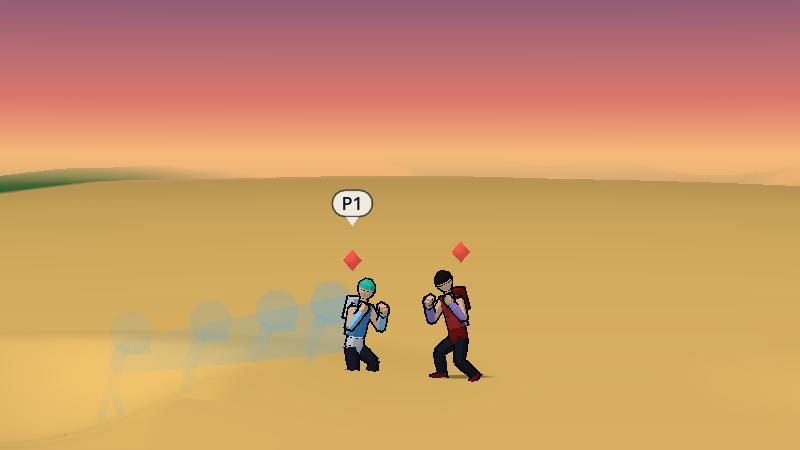
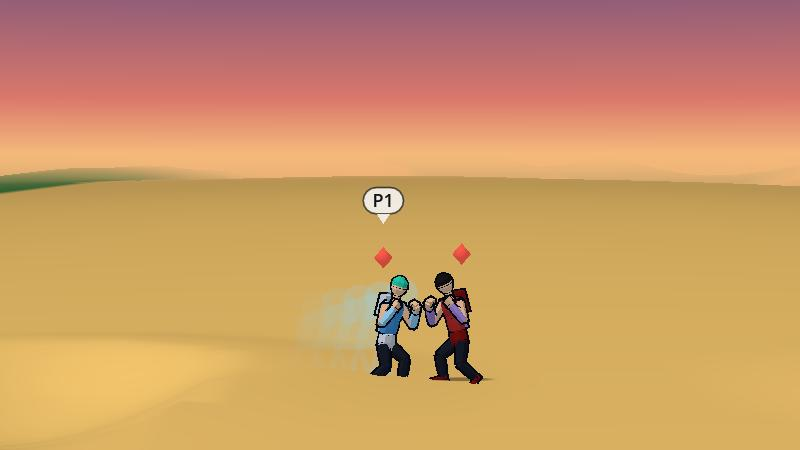
VFX: Legal's zip rules applied (echoes trail the body, travel minimum checked, ghost cap, ring and marks)

diff --git a/docs/vfx/zip.md b/docs/vfx/zip.md
@@ -6,15 +6,15 @@ Orb's approved reference: `docs/ep/prototypes/lt-zip-v4.html` ("the zip prototyp
 
 | Part | What is drawn |
 | :-- | :-- |
-| **The tell** (the wind-up ticks) | A thin line along the ground from where he stands toward the arrival point, brighter as the wind-up runs out, with a small tick where it ends. A heavy also gets its charge ring shrinking on him (40 to 12 units, brightening). 2 quads, 3 for a heavy. |
-| **Speed, travel** | Five stacked soft filled ghosts of him along the path he really took (his last positions, `VfxPress.hist`), fainter the older, and two streak bands (head height and hip height) from the oldest ghost to him. About 27 quads. Picture: `zip-speed-in.jpg`. |
-| **Tech, travel** | No travel: four wire echoes of him along the straight line from where he began to where he arrived, popping off one at a time from the back to the front (2, 4, 6, 8 ticks), and a thin line at head height fading over 10 ticks. About 21 quads falling to 6. The same along the line out. Picture: `zip-tech-arrive.jpg`. |
-| **Heavy, travel** | The same ghosts stretched wider (twice the stroke and head size, brighter) and one wide band. About 26 quads. A heavy goes out as a speed zip, as the prototype does. Picture: `zip-heavy-in.jpg`. |
+| **The tell** (the wind-up ticks) | A thin line along the ground from where he stands toward the arrival point, brighter as the wind-up runs out, with a small tick where it ends. A heavy also gets its charge ring: hollow, thin, lane colour, shrinking onto the fist (40 to 12 units), only in the **last 10 ticks** of the wind-up (Legal m07). 2 quads, 3 for a heavy in its last 10 ticks. |
+| **Speed, travel** | A smear of up to five soft filled ghosts on the path he really took (his recorded positions, `VfxPress.hist`), each **16 units behind the last** (two thirds of a 24-wide body, so each overlaps the next by a third), one flat lane-colour tint, 0.35 opacity at most for the nearest and fainter the older (0.35, 0.28, 0.21, 0.14, 0.07), and two streak bands (head and hip height). They are drawn behind him and only while he travels; a body that is not moving has none. About 27 quads. Picture: `zip-speed-in.jpg`. |
+| **Tech, travel** | **The body travels** (the sim sets at least `max(4, ceil(distance in body heights / 3))` ticks each way; Legal RL-076); four wire echoes trail it, strung from where this leg began to the BODY, never ahead of him and never at the arrival point before he gets there, popping off one at a time from the back to the front (2, 4, 6, 8 ticks from the leg's start), and a thin line at head height fading over 10 ticks. About 21 quads falling to 6. The same on the way out, along the drawn path to the exit, which is its own leg after the strike hold. Pictures: `zip-tech-travel.jpg`, `zip-tech-out-over.jpg` (the body flying up over the rival, echoes trailing). |
+| **Heavy, travel** | The same smear with heavier ghosts (one and a half times the stroke and head size, the same 0.35 cap) and one wide band. About 26 quads. A heavy goes out as a speed zip, as the prototype does. Picture: `zip-heavy-in.jpg`. |
 | **The way out** | The same, along the path out, to the exit point. `zip-speed-out-up.jpg`: an exit straight up. |
 | **The strike** | Nothing new: each blow is a `damage` event, so the press styles' marks per reading (the speed ring, the tech diamond, the heavy's double ring and crescent) draw as they do. |
-| **Counter** (he is stopped on arrival) | A hard bar across his path where he is stopped, 96 units long, and the counterer's mark: a diamond for a tech counter, a double ring for a heavy one. 2 to 3 quads, 12 ticks. `zip-counter.jpg`. |
-| **Caught** (a late counter catches him in reach) | A ring closing on him (38 to 16 units) and two brackets beside him. 3 quads, 22 ticks. `zip-caught.jpg`. |
-| **Guard broken** | The shield line breaks into four fragments that fly out, with a flash ring, at the defender. 5 quads, 14 ticks. `zip-guard-broken.jpg`. |
+| **Counter** (he is stopped on arrival) | A hard bar across his path where he is stopped (54 units, centred low on the body) and the counterer's mark (at most 26 units): a diamond for a tech counter, a double ring for a heavy one. 2 to 3 quads, 12 ticks. `zip-counter.jpg`. |
+| **Caught** (a late counter catches him in reach) | A ring closing round his chest (26 to 14 units, under the face) and two brackets beside him. 3 quads, 22 ticks. `zip-caught.jpg`. |
+| **Guard broken** | The shield line breaks into four fragments that fly out, with a small flash ring (22 units at most) low on the defender, in the lane colour. 5 quads, 14 ticks. `zip-guard-broken.jpg`. |
 | **The grab lock** | No effect (UI's). |
 
 **Any direction.** Every travel effect is drawn between two points, so a zip up, down, behind or round the rival draws along its own line: the ghosts sit on his recorded path (a curved path is a curved trail), the bands run from the oldest ghost to him, the tech echoes lie on the straight line between the start, the arrival and the exit point. `effects_check.gd` asserts a vertical and a diagonal zip each draw their band along the path.
@@ -43,18 +43,26 @@ Quads only, in the shots view's one draw (cap 380): a tell 2 to 3, travel 21 to 
 
 Two ghosts and one band for speed and heavy (11 quads against 27), the last echo and the line only for tech; the tell, the outcome marks and the heavy's ring are as they are (single, steady). `effects_check.gd` checks the reduced count.
 
-## Legal
+## Legal (docs/legal/zip-screen.md, RL-076 to RL-080; motion rules m01 to m08 in `movegen-banned.json`)
 
-**Legal's four effect flags for Combat's generator** (`docs/legal/movegen-banned.json`, rows b09 and b13): the generator flags a piece, not a render effect, and my effects are drawn by the renderer from events, never by a piece. These are the effects that could be read as setting each flag, and what I would tell Legal:
+Applied 2026-10-05, the flag still off:
 
-- **`glow`** (a melee piece never carries light): none of mine is additive or a light source (the material is `blend_mix`, flat colour). The nearest are the **speed reading's soft discs** (a motion blur of layered soft discs along the fist, the press styles and the zip's speed ghosts have hard strokes) and the heavy's **filled crescent**. They are blur and smear, not light; if Combat's generator wants a flag, tag the speed reading as `blur`, not `glow`.
-- **`energy_ball`**: none. The only round filled shapes are the speed blur's discs (smeared along a path, never at rest in a hand) and the wire head rings of the echoes. No effect forms a ball at the hand or in front of it.
-- **`growing_orb`**: none. The heavy's charge ring **shrinks** onto the fist (40 to 12 units: the prototype's own), and the contact rings **expand** as hollow rings that fade, never filled and never held. If Legal reads the wind-up ring as a charging pose it is the one to look at; it never grows.
-- **`afterimage_hides_body`**: the ghosts and echoes are drawn behind him (the speed and heavy ghosts) or as empty wire outlines (the tech echoes); the real body is drawn every frame. Two things Legal should see. (1) **The tech zip has no travel**: his body goes from the start to the arrival in the cue's `n` ticks (2 in the prototype), with only echoes marking the path. That is the nearest thing to a blink; b13 says "the fighter is drawn the whole way". I would make the tech's move at least 4 ticks, drawn, with the echoes along it. (2) **Filled ghosts**: Legal's dash afterimage rule (RL-052) says a thin outline, empty inside, half opacity at most, in the lane colour, no ring of copies, gone in 0.1 s. The speed and heavy ghosts are filled (Orb's "soft filled ghosts"), at most 0.35 opacity, in the lane colour, along the path and never in a ring, and last the length of the move (6 to 8 ticks). They need Legal's eye for the "filled" part; the wire (tech) ones meet the rule.
+| Rule | What the code does |
+| :-- | :-- |
+| **m01** the body is drawn and opaque every tick | The body is the real fighter, drawn by Rendering; nothing here hides, fades or swaps it. The ghosts and echoes are drawn behind it (`zb`, 12 units behind the fighter plane). Not checkable in `effects_check` beyond that. |
+| **m02** at least `max(4, ceil(distance_bh / 3))` ticks each way | The sim sets the ticks (Encounter). `VfxZip.min_ticks(distance_bh)` is the rule and every cue is checked against it: `hub.zip.violations` counts `short_in` and `short_out` for QA. The staging now sends 5 ticks for the tech zip. |
+| **m03** the path is continuous, echoes trail the body, none at the arrival point before he gets there | The tech echoes are strung from the leg's start to the BODY's current place (`VfxZip.echo_points`), never to the arrival point; `effects_check` asserts each lies between the start and the body on every travel tick. |
+| **m04** a far-side exit is its own drawn travel after the hold | The way out is its own leg (the echoes restart from the arrival at the end of the hold). Whether he appears behind the rival on the strike's tick is the sim's: the cue's `out` ticks and positions decide, and `violations` flags a short one. |
+| **m05** ghosts: one lane tint, 0.35 or less and fainter the older, at most 5, on the real path, overlapping by a third, no ring or fan, gone within 8 ticks | `VfxZip.trail_points` places up to 5 on the body's recorded path 16 units apart; alpha 0.35 down to 0.07; one colour (the lane's, not darkened or tinted); drawn only in the two travel legs, so none outlives the zip. `effects_check` asserts the spacing, the count, the maximum alpha (0.30 with the bands) and nothing drawn the tick the zip ends. The press styles' heavy ghosts take the same cap and last 8 ticks (`ghost_life`), at most 5, fainter the older. |
+| **m06** the body on top, no stationary copy | Ghosts are behind him; `trail_points` returns none for a body that is not moving. (The press styles' heavy ghosts stand where he was for their 8 ticks and then go.) |
+| **m07** the heavy's ring: hollow, thin, lane colour, shrinking only, the wind-up only (10 ticks or fewer) | Drawn only in the last 10 ticks of a wind-up (the zip's and the press styles' alike), 2.2 units thick, shrinking onto the fist's place. `effects_check` asserts 2 quads early in a heavy zip's wind-up and 3 late. |
+| **m08** outcome marks: no text, nothing on the face, no body-wide gold, white or red | No text anywhere. The counter bar, the caught ring and the guard-broken ring are centred 30 to 34 units above his feet and at most 26 units across (his face is above 62); `effects_check` asserts the marks sit within 40 units of his feet. The colours are the lane's (cyan, violet), never white, gold or red. |
+
+**Legal's four effect flags for Combat's generator** (answered 2026-10-05, unchanged by the ruling): none of my effects is a piece, additive or a light; the nearest to `glow` are the speed reading's soft discs (a blur), to `energy_ball` the same discs (smeared along a path, never at rest in a hand), to `growing_orb` none (the heavy's ring shrinks, the contact rings are hollow), to `afterimage_hides_body` the tech zip's travel, now at least 4 drawn ticks with the echoes behind the body.
 
 ## Tested
 
-`effects_check.gd` `_zip()`: off by default and behind the press flag; the cue's reading, wind-up, move, exit point, strike ticks and way-out ticks; the tell (2 and 3 quads); speed travel (27) and heavy travel (26); the vertical and the diagonal bands; a heavy leaving as a speed zip; tech with no travel, popping echoes along the line (21, 21, 16, 16, 11, 11, 6, 6) and the line out to an exit above and behind; a counter stopping the zip (2 and 3 quads), caught (3), guard broken (5) and the marks gone in their lives; reduced motion; off draws nothing.
+`effects_check.gd` `_zip()` (and the press styles' wind-up case): off by default and behind the press flag; Legal's travel minimum and the count of cues that break it; echoes between the start and the body on every tick; ghost count, gap, alpha and lifetime; the heavy ring in its last 10 ticks; marks below the face; the cue's reading, wind-up, move, exit point, strike ticks and way-out ticks; the tell (2 and 3 quads); speed travel (27) and heavy travel (26); the vertical and the diagonal bands; a heavy leaving as a speed zip; tech with 5 ticks of travel, the echoes drawn during it and popping off after it, and the way out to an exit above and behind; a counter stopping the zip (2 and 3 quads), caught (3), guard broken (5) and the marks gone in their lives; reduced motion; off draws nothing.
 
 ## Known weak spots
 

diff --git a/docs/vfx/press-styles.md b/docs/vfx/press-styles.md
@@ -66,3 +66,7 @@ Block and a heavy ender's target flying with ghosts (these two are from the earl
 - A block and a fly are not tied to a body phase yet.
 - The fly's ghosts are the weakest read: flat filled figures at the target's earlier positions; the prototype's stretch (the body itself elongating) is not possible from a draw layer and wants Animation's squash and stretch on the target.
 - Rendering's own contact sparks and rings still fire on a hit; this adds to them. Whether it should replace them is the EP's and Orb's call.
+
+## Legal's motion rules applied to the press styles (2026-10-05, docs/legal/zip-screen.md)
+
+The heavy's filled ghosts take the zip ghosts' conditions (m05, m06): one lane-colour tint, 0.35 opacity at most and fainter the older (0.35 times k over n), at most 5, gone in 8 ticks (`ghost_life` is 8). The heavy's wind-up ring (m07) shows only in the last 10 ticks of the wind, thin (2.2 units), hollow and shrinking. The ps-heavy-*.jpg stills above are from before this change (their ghosts were up to 0.5 opaque and the ring showed the whole wind-up); they are not re-shot.
